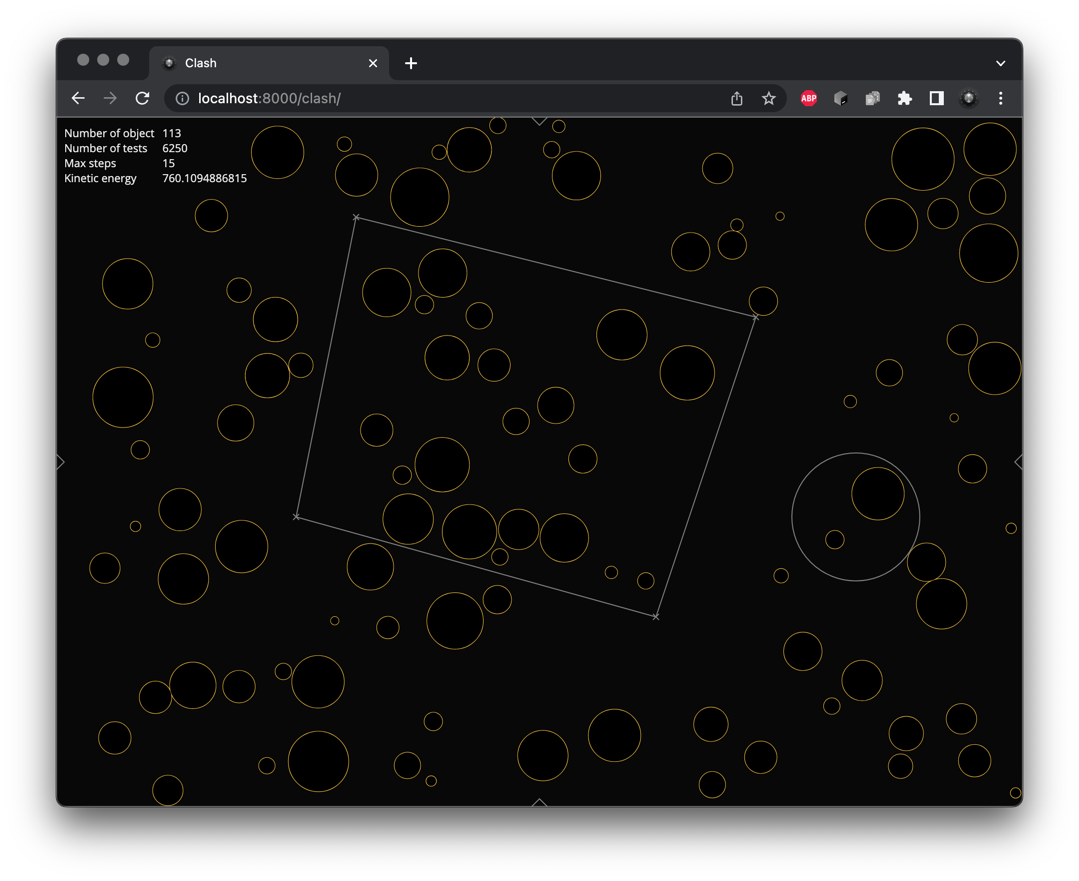
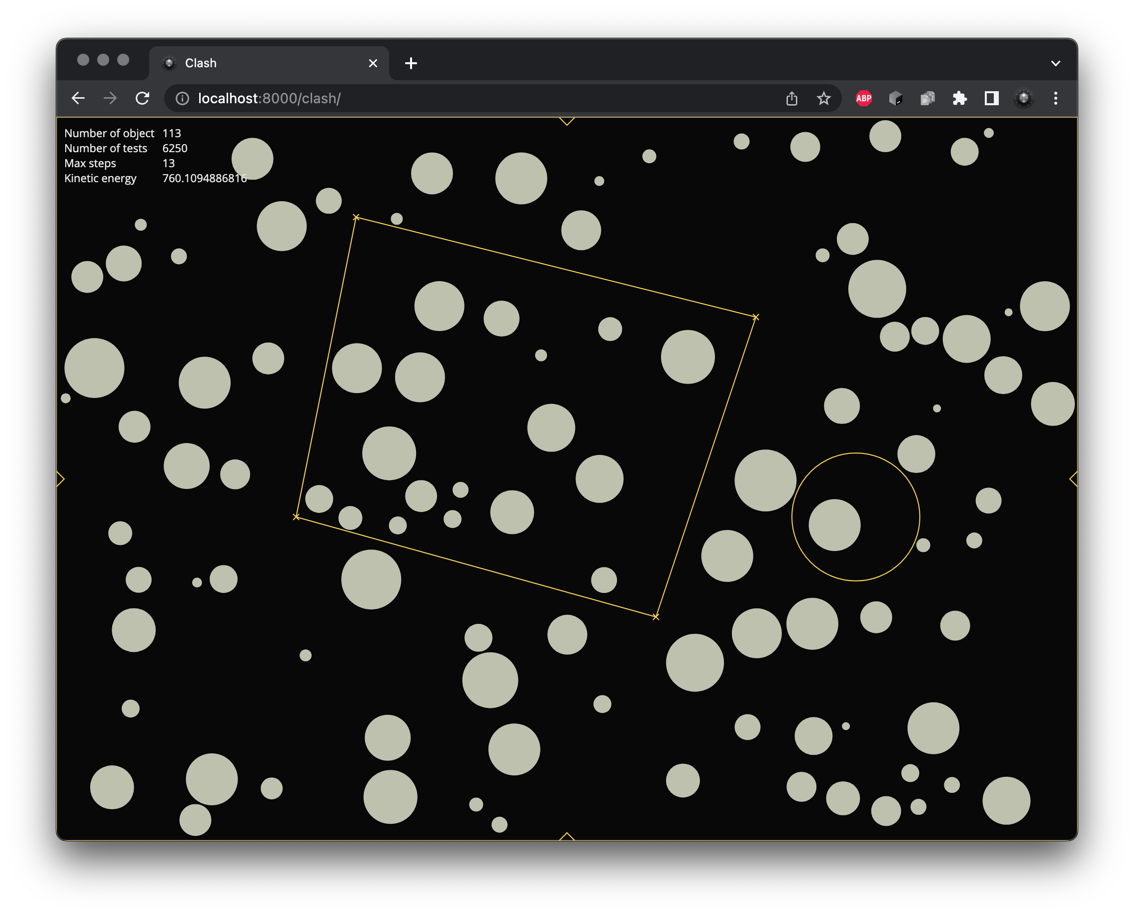
README.md

diff --git a/bin/clash/scene.js b/bin/clash/scene.js
@@ -1,6 +1,7 @@
-import { ArrayUtils } from "../lib/common.js";
+import { ArrayUtils, ObservableValueImpl } from "../lib/common.js";
 import { Contact } from "./contact.js";
-import { decode, FixedLine, MovingCircle, MovingObject } from "./objects.js";
+import { decodeSceneObject } from "./format.js";
+import { FixedLine, MovingCircle, MovingObject } from "./objects.js";
 import { Vector } from "./vector.js";
 export class SceneObject {
     proximate(nearest, object) {
@@ -23,12 +24,14 @@ export class Scene {
         this.fixedObjects = [];
         this.movingObjects = [];
         this.testPairs = [];
+        this.gravity = new ObservableValueImpl(0.0);
+        this.damping = new ObservableValueImpl(0.0);
         this.needsCompile = false;
         this.maxIterations = 0;
         this.running = true;
         this.numTests = () => this.testPairs.length;
         this.numObjects = () => this.movingObjects.length + this.fixedObjects.length;
-        this.getResetMaxIterations = () => {
+        this.getResetMaxSteps = () => {
             const maxIterations = this.maxIterations;
             this.maxIterations = 0;
             return maxIterations;
@@ -69,7 +72,7 @@ export class Scene {
         if (this.needsCompile) {
             this.compile();
         }
-        this.applyForces();
+        this.computeForces();
         let steps = 0;
         while (remaining > Scene.REMAINING_THRESHOLD) {
             const contact = this.nextContact(new Contact(remaining, null, null));
@@ -80,7 +83,7 @@ export class Scene {
             this.integrate(contact.when);
             contact.repel();
             remaining -= contact.when;
-            if (++steps > Scene.MAX_ITERATIONS) {
+            if (++steps > Scene.MAX_STEPS) {
                 console.log(steps, contact);
                 throw new Error('Solving took too long');
             }
@@ -95,38 +98,49 @@ export class Scene {
             .concat(this.fixedObjects.map(other => [movingObject, other])), [])));
         this.needsCompile = false;
     }
+    computeForces() {
+        this.movingObjects.forEach(object => object.force.zero());
+    }
     nextContact(contact) {
         return this.testPairs.reduce((nearest, pair) => pair[1].proximate(nearest, pair[0]), contact);
     }
-    applyForces() {
-        this.movingObjects.forEach(moving => moving.applyForces());
-    }
     integrate(time) {
-        this.movingObjects.forEach(moving => moving.integrate(time));
+        const gravity = this.gravity.get();
+        const dampingScale = Math.pow(1.0 - this.damping.get(), time);
+        this.movingObjects.forEach(object => {
+            object.position.addScaled(object.velocity, time);
+            object.velocity.addScaled(object.force, time * object.inverseMass);
+            object.velocity.y += gravity * time;
+            object.velocity.scale(dampingScale);
+        });
     }
     wireframe(context) {
         context.beginPath();
         this.movingObjects.forEach(object => object.wireframe(context));
-        context.strokeStyle = 'rgb(255, 200, 60)';
-        context.fillStyle = 'black';
+        context.strokeStyle = null;
+        context.fillStyle = '#BDC2AD';
         context.stroke();
         context.fill();
         context.beginPath();
         this.fixedObjects.forEach(object => object.wireframe(context));
-        context.strokeStyle = 'grey';
+        context.strokeStyle = '#F9D253';
         context.stroke();
     }
     deserialize(format) {
         ArrayUtils.clear(this.movingObjects);
         ArrayUtils.clear(this.fixedObjects);
-        this.addComposite({ objects: format.objects.map(f => decode(f)) });
+        this.addComposite({ objects: format.objects.map(f => decodeSceneObject(f)) });
+        this.gravity.set(format.gravity);
+        this.damping.set(format.damping);
     }
     serialize() {
         return {
+            gravity: this.gravity.get(),
+            damping: this.damping.get(),
             objects: [...this.movingObjects, ...this.fixedObjects].map(o => o.serialize())
         };
     }
 }
 Scene.REMAINING_THRESHOLD = 1e-7;
-Scene.MAX_ITERATIONS = 10000;
+Scene.MAX_STEPS = 10000;
 //# sourceMappingURL=scene.js.map

diff --git a/bin/clash/objects.js b/bin/clash/objects.js
@@ -2,19 +2,6 @@ import { TAU } from "../lib/math.js";
 import { Contact } from "./contact.js";
 import { SceneObject } from "./scene.js";
 import { Vector } from "./vector.js";
-export const decode = (format) => {
-    switch (format.class) {
-        case 'moving-circle':
-            return new MovingCircle(format.mass, format.px, format.py, format.radius).setVelocity(format.vx, format.vy);
-        case 'fixed-point':
-            return new FixedPoint(new Vector(format.x, format.y));
-        case 'fixed-circle':
-            return new FixedCircle(new Vector(format.x, format.y), format.radius, format.outline, new CircleSegment(format.segment[0], format.segment[1]));
-        case 'fixed-line':
-            return new FixedLine(new Vector(format.x0, format.y0), new Vector(format.x1, format.y1), format.gate);
-    }
-    throw new Error(`Unknown format: ${format}`);
-};
 export class MovingObject extends SceneObject {
     constructor(mass, x = 0.0, y = 0.0) {
         super();
@@ -28,17 +15,6 @@ export class MovingObject extends SceneObject {
         this.velocity.x = x;
         this.velocity.y = y;
         return this;
-    }
-    applyForces() {
-        const gravity = 0.0;
-        this.force.zero();
-        if (this.mass !== Number.POSITIVE_INFINITY) {
-            this.force.y += gravity * this.mass;
-        }
-    }
-    integrate(time) {
-        this.position.addScaled(this.velocity, time);
-        this.velocity.addScaled(this.force, time * this.inverseMass);
     }
 }
 export class MovingCircle extends MovingObject {

diff --git a/bin/clash/scene.d.ts b/bin/clash/scene.d.ts
@@ -1,3 +1,4 @@
+import { ObservableValue } from "../lib/common.js";
 import { Contact } from "./contact.js";
 import { SceneFormat, SceneObjectFormat } from "./format.js";
 import { MovingCircle, MovingObject } from "./objects.js";
@@ -12,10 +13,12 @@ export declare abstract class SceneObject {
 }
 export declare class Scene {
     private static readonly REMAINING_THRESHOLD;
-    private static readonly MAX_ITERATIONS;
+    private static readonly MAX_STEPS;
     private readonly fixedObjects;
     private readonly movingObjects;
     private readonly testPairs;
+    readonly gravity: ObservableValue<number>;
+    readonly damping: ObservableValue<number>;
     private needsCompile;
     private maxIterations;
     running: boolean;
@@ -26,14 +29,14 @@ export declare class Scene {
     }): void;
     step(remaining: number): void;
     compile(): void;
+    computeForces(): void;
     nextContact(contact: Contact): Contact;
-    applyForces(): void;
     integrate(time: number): void;
     wireframe(context: CanvasRenderingContext2D): void;
     deserialize(format: SceneFormat): void;
     serialize(): SceneFormat;
     numTests: () => number;
     numObjects: () => number;
-    getResetMaxIterations: () => number;
+    getResetMaxSteps: () => number;
     kineticEnergy: () => number;
 }

diff --git a/bin/clash/objects.d.ts b/bin/clash/objects.d.ts
@@ -1,8 +1,7 @@
 import { Contact } from "./contact.js";
-import { FixedCircleFormat, FixedLineFormat, FixedPointFormat, MovingCircleFormat, SceneObjectFormat } from "./format.js";
+import { FixedCircleFormat, FixedLineFormat, FixedPointFormat, MovingCircleFormat } from "./format.js";
 import { SceneObject } from "./scene.js";
 import { Vector } from "./vector.js";
-export declare const decode: (format: SceneObjectFormat) => SceneObject;
 export declare abstract class MovingObject extends SceneObject {
     readonly mass: number;
     readonly inverseMass: number;
@@ -11,8 +10,6 @@ export declare abstract class MovingObject extends SceneObject {
     readonly force: Vector;
     protected constructor(mass: number, x?: number, y?: number);
     setVelocity(x: number, y: number): this;
-    applyForces(): void;
-    integrate(time: number): void;
     abstract wireframe(context: CanvasRenderingContext2D): void;
     abstract proximateMovingCircle(nearest: Contact, other: MovingCircle): NonNullable<Contact>;
     abstract repelMovingCircle(circle: MovingCircle): void;

diff --git a/bin/clash/format.js b/bin/clash/format.js
@@ -1,2 +1,16 @@
-export {};
+import { CircleSegment, FixedCircle, FixedLine, FixedPoint, MovingCircle } from "./objects.js";
+import { Vector } from "./vector.js";
+export const decodeSceneObject = (format) => {
+    switch (format.class) {
+        case 'moving-circle':
+            return new MovingCircle(format.mass, format.px, format.py, format.radius).setVelocity(format.vx, format.vy);
+        case 'fixed-point':
+            return new FixedPoint(new Vector(format.x, format.y));
+        case 'fixed-circle':
+            return new FixedCircle(new Vector(format.x, format.y), format.radius, format.outline, new CircleSegment(format.segment[0], format.segment[1]));
+        case 'fixed-line':
+            return new FixedLine(new Vector(format.x0, format.y0), new Vector(format.x1, format.y1), format.gate);
+    }
+    throw new Error(`Unknown format: ${format}`);
+};
 //# sourceMappingURL=format.js.map

diff --git a/bin/clash/format.d.ts b/bin/clash/format.d.ts
@@ -1,8 +1,12 @@
 import { Outline } from "./objects.js";
+import { SceneObject } from "./scene.js";
 export declare type SceneFormat = {
+    gravity: number;
+    damping: number;
     objects: SceneObjectFormat[];
 };
 export declare type SceneObjectFormat = MovingCircleFormat | FixedPointFormat | FixedCircleFormat | FixedLineFormat;
+export declare const decodeSceneObject: (format: SceneObjectFormat) => SceneObject;
 export declare type MovingObjectFormat = {
     mass: number;
     px: number;

diff --git a/bin/clash/vector.d.ts b/bin/clash/vector.d.ts
@@ -3,7 +3,7 @@ export declare class Vector {
     y: number;
     static subtract(a: Vector, b: Vector): Vector;
     static normalized(v: Vector): Vector;
-    constructor(x?: number, y?: number);
+    constructor(x: number, y: number);
     zero(): void;
     add(other: Vector): void;
     addScaled(other: Vector, scale: number): void;

diff --git a/bin/clash/vector.js b/bin/clash/vector.js
@@ -1,5 +1,5 @@
 export class Vector {
-    constructor(x = 0.0, y = 0.0) {
+    constructor(x, y) {
         this.x = x;
         this.y = y;
     }

diff --git a/README.md b/README.md
@@ -18,7 +18,7 @@ Make sure to have typescript installed and run in the console:
 
 # Todo
 
-* Introduce gravity and resistance
+* ~~Introduce gravity and resistance~~
 * Find solution for resting contacts (prevent permanent jumping)
 * Introduce moving particles
 * ~~Introduce **fixed** polygons, circles, and circle segments~~
